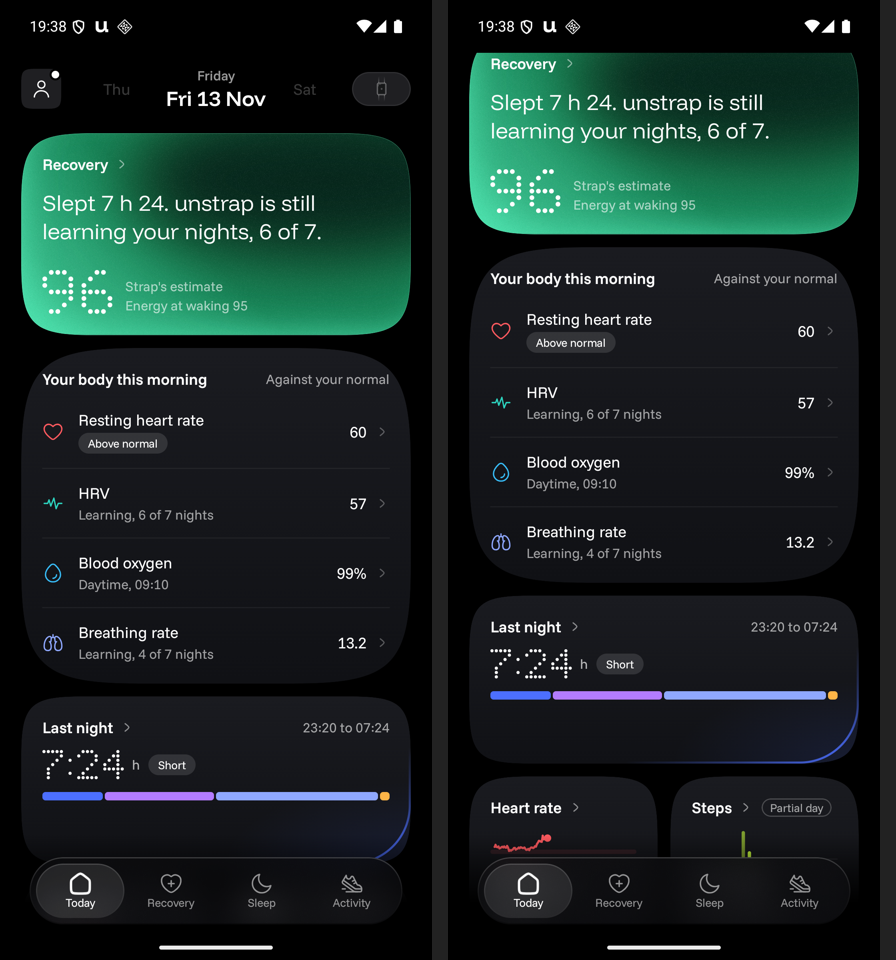
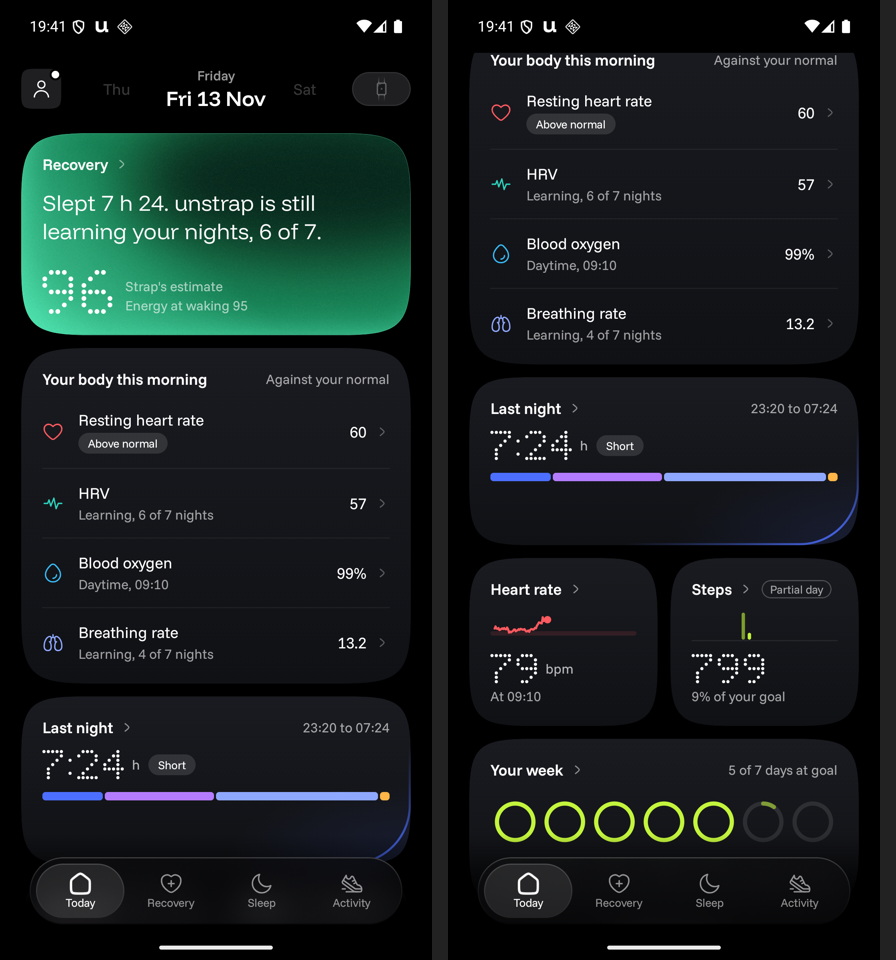
Halo corners: cap the squircle radius at 64 dp so tall cards stay cards

diff --git a/app/src/main/kotlin/org/openstrap/app/ui/glow/GlowLayout.kt b/app/src/main/kotlin/org/openstrap/app/ui/glow/GlowLayout.kt
@@ -17,6 +17,9 @@ import androidx.compose.foundation.layout.width
 import androidx.compose.foundation.shape.RoundedCornerShape
 import sv.lib.squircleshape.SquircleShape
 import androidx.compose.ui.graphics.Shape
+import androidx.compose.ui.graphics.Outline
+import androidx.compose.ui.unit.LayoutDirection
+import androidx.compose.ui.unit.Density
 import androidx.compose.ui.geometry.Size
 import androidx.compose.material3.Icon
 import androidx.compose.material3.Text
@@ -49,21 +52,24 @@ object GlowLayout {
     /**
      * Corners follow Airofit's rule, measured from its Behance screens on 15 Nov 2026 and made a step rounder by the user:
      * a squircle whose radius is [CORNER_PERCENT] of the shape's shorter side, at [SMOOTHING] (the library's 0 to 100,
-     * how far the curve reaches into the straight edge). A 200 dp hero gets 70 dp, a half-width tile 63 dp.
+     * how far the curve reaches into the straight edge), and never more than [MAX_CORNER] so a tall list stays a card. A
+     * 170 dp hero gets 60 dp, a half-width tile 63 dp, anything taller than about 183 dp gets 64 dp.
      */
     const val CORNER_PERCENT = 35
     const val SMOOTHING = 65
     private const val PERCENT = 100f
+    val MAX_CORNER = 64.dp
 
     /** A card's corner in px for a card of [size], for code that draws the outline itself. */
-    fun cornerPx(size: Size): Float = size.minDimension * CORNER_PERCENT / PERCENT
+    fun cornerPx(size: Size, density: Density): Float =
+        minOf(size.minDimension * CORNER_PERCENT / PERCENT, with(density) { MAX_CORNER.toPx() })
 
     /**
      * A fixed corner for what has no card of its own to measure: home screen widgets and strips drawn piece by piece.
      * Cards themselves use [CardShape].
      */
     val CardCorner = 36.dp
-    val CardShape: Shape = SquircleShape(percent = CORNER_PERCENT, smoothing = SMOOTHING)
+    val CardShape: Shape = HaloSquircle
     /** A sheet is taller than the screen is wide, so its top corners are fixed: about a hero's. */
     val SheetCorner = 56.dp
     val SheetShape: Shape =
@@ -530,4 +536,12 @@ internal fun OutlineTag(text: String, modifier: Modifier = Modifier, onClick: ((
             .padding(horizontal = 8.dp, vertical = 2.dp),
         color = Color.White.copy(alpha = GlowType.CAPTION_ALPHA), style = GlowType.caption, maxLines = 1,
     )
+}
+
+/** The card squircle: [GlowLayout.cornerPx] for the shape's own size, at [GlowLayout.SMOOTHING]. */
+private object HaloSquircle : Shape {
+    override fun createOutline(size: Size, layoutDirection: LayoutDirection, density: Density): Outline {
+        val radius = with(density) { GlowLayout.cornerPx(size, density).toDp() }
+        return SquircleShape(radius = radius, smoothing = GlowLayout.SMOOTHING).createOutline(size, layoutDirection, density)
+    }
 }

diff --git a/app/src/main/kotlin/org/openstrap/app/ui/glow/PictureCard.kt b/app/src/main/kotlin/org/openstrap/app/ui/glow/PictureCard.kt
@@ -115,7 +115,7 @@ private fun Modifier.rimLight(rim: Rim, ink: Color, strength: Float): Modifier =
         listOf(0f, RIM_HALF_AT, 1f),
     )
     val w = RimWidth.toPx()
-    val corner = GlowLayout.cornerPx(size)
+    val corner = GlowLayout.cornerPx(size, this)
     onDrawBehind {
         drawRect(wash)
         drawRoundRect(

diff --git a/app/src/main/kotlin/org/openstrap/app/ui/glow/MovingBorder.kt b/app/src/main/kotlin/org/openstrap/app/ui/glow/MovingBorder.kt
@@ -61,7 +61,7 @@ fun Modifier.movingBorder(): Modifier {
         }
     }
     return drawWithCache {
-        val corner = GlowLayout.cornerPx(size)
+        val corner = GlowLayout.cornerPx(size, this)
         val ring = RingWidth.toPx()
         val halo = HaloWidth.toPx()
         val cx = size.width / 2f
